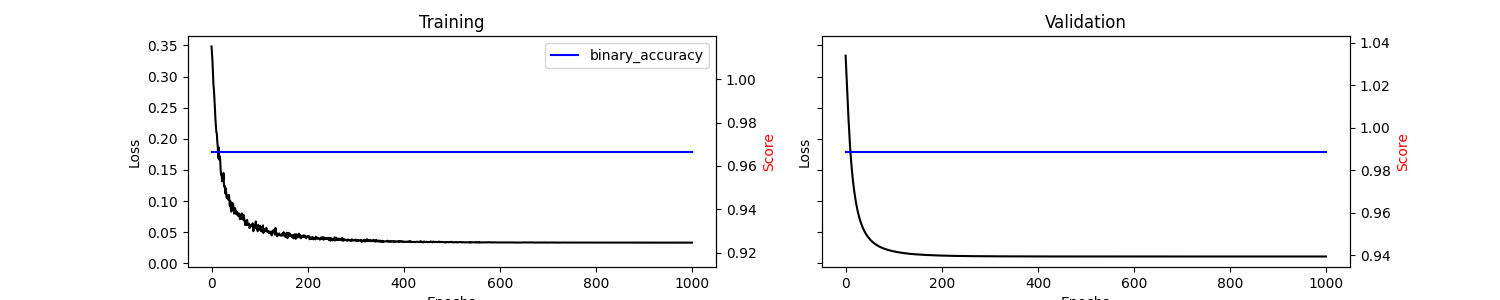
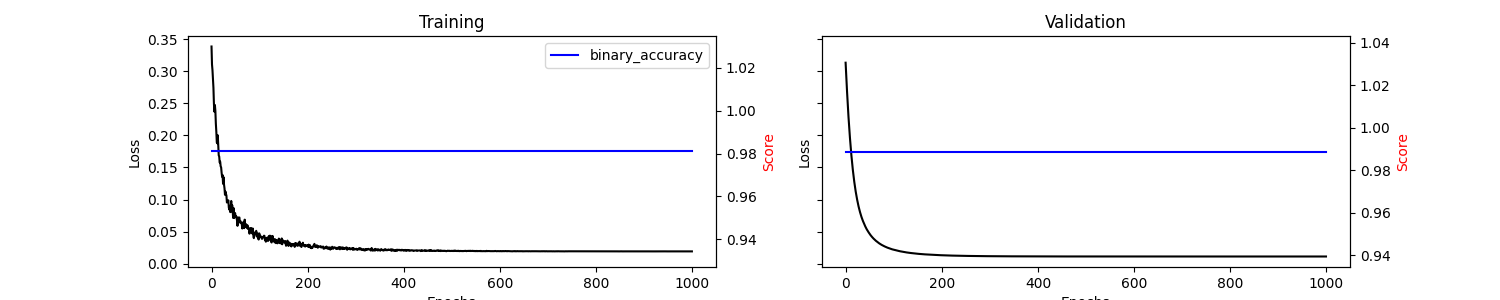
update

diff --git a/gen_training_data.py b/gen_training_data.py
@@ -746,7 +746,6 @@ def ten_vars_gateDeepNN(i):
     print(sum([1 if i == j else 0 for i, j in zip(test_predictions,answer)])/len(answer))
 
 def experimentPartThreeWrapper():
-    """Simple perceptron"""
     # prepare data
     concatDF, splitDF, inputdata, targetdata = experimentPartOneWrapper()
     # prepare network
@@ -759,7 +758,6 @@ def experimentPartThreeWrapper():
             dict(testNet.in_degree).items(),
         )
     )
-    import random
     answers = {}
     testNodes = list(testNode.keys())
     #testNode = testNode[random.sample(range(0, len(testNode)), 1)[0]]
@@ -784,22 +782,7 @@ def experimentPartThreeWrapper():
         print(testTarget.shape)
         print(testTarget)
         print(testInput)
-        """
-        model = models.Sequential(
-            name="Perceptron",
-            layers=[
-                layers.Dense(  # a fully connected layer
-                    name="dense",
-                    input_dim=len(
-                        testInput.columns
-                    ),  # number of features = number of upstream nodes from the PKN
-                    units=1,  # and 1 node because we want 1 output
-                    activation="linear",  # f(x)=x
-                )
-            ],
-        )
-        model.summary()
-        """
+
         model = models.Sequential(name="DeepNN", layers=[
         ### hidden layer 1
         layers.Dense(name="h1", input_dim=len(
@@ -808,14 +791,14 @@ def experimentPartThreeWrapper():
                     units=int(round((len(
                         testInput.columns
                     )+1)/2)), 
-                    activation='linear'),
+                    activation='tanh'),
         layers.Dropout(name="drop1", rate=0.2),
         
         ### hidden layer 2
         layers.Dense(name="h2", units=int(round((len(
                         testInput.columns
                     )+1)/4)), 
-                    activation='relu'),
+                    activation='sigmoid'),
         layers.Dropout(name="drop2", rate=0.2),
         
         ### layer output
@@ -832,18 +815,17 @@ def experimentPartThreeWrapper():
                 #tensorflow.keras.metrics.FalsePositives(),
                 #tensorflow.keras.metrics.FalseNegatives(),
                 tensorflow.keras.metrics.BinaryAccuracy(),
-                R2,
                 #tensorflow.keras.metrics.Recall(),
             ],
         )
 
         n_samples = len(testInput.index)
-        trainingSamples = random.sample(range(0, n_samples), floor(3*n_samples/4))
+        trainingSamples = sample(range(0, n_samples), floor(3*n_samples/4))
         testSamples = list(set(range(0,n_samples)).difference(set(trainingSamples)))
-        X = testInput.iloc[trainingSamples]
-        y = testTarget.iloc[trainingSamples]
+        X = testInput#.iloc[trainingSamples]
+        y = testTarget#.iloc[trainingSamples]
         training = model.fit(
-            x=X, y=y, batch_size=2, epochs=16, shuffle=True, verbose=0, validation_split=0.3
+            x=X, y=y, batch_size=10, epochs=1000, shuffle=True, verbose=0, validation_split=0.3
         )
 
         # plot
@@ -879,28 +861,25 @@ def experimentPartThreeWrapper():
             i = i + 1
         ax22.set_ylabel("Score", color="red")
         ax11.legend()
-        plt.savefig("temp.png")
+        plt.savefig(str(testNode)+"_training.png")
         plt.close()
 
         ## explainer_shap(model, upstream, X, X_train=X, task="regression", top=10)
-        from numpy import argmax
-        test_predictions = argmax(model.predict(testInput.iloc[testSamples]),axis=-1).flatten()
+        answer = testTarget.iloc[testSamples]
+        answer = answer.iloc[:,0]
+        answer = answer.to_list()
 
-        a = plt.axes(aspect='equal')
-        plt.scatter(testTarget.iloc[testSamples], test_predictions)
+        test_predictions = np.round(model.predict(testInput.iloc[testSamples]))
+        plt.title("Proportion true predictions: " + str(round(sum([1 if i == j else 0 for i, j in zip(test_predictions,answer)])/len(answer),2)))
+        plt.axes(aspect='equal')
+        plt.hist([int(int(i) == int(j)) for i,j in zip(answer, test_predictions)])
         plt.xlabel('True Values')
         plt.ylabel('Predictions')
         lims = [0, 1]
         plt.xlim(lims)
-        plt.ylim(lims)
-        plt.savefig('temp2.png')
-
+        plt.savefig(str(testNode)+"_predictions.png")
+        plt.close()
         print(test_predictions)
-        #print(testTarget.iloc[testSamples])
-        #print(len(testTarget.iloc[testSamples]))
-        answer = testTarget.iloc[testSamples]
-        answer = answer.iloc[:,0]
-        answer = answer.to_list()
         print(answer)
         print(len(answer))
         print(sum([1 if i == j else 0 for i, j in zip(test_predictions,answer)]))
@@ -919,6 +898,8 @@ if __name__ == "__main__":
     # prepare network
     #testNet = nx.read_graphml("large_hif1Agraph.graphml")
     #experimentPartTwoWrapper()
+
+    """
     for i in range(0,3):
         print(i)
         ten_vars_gateDeepNN(i)
@@ -927,3 +908,5 @@ if __name__ == "__main__":
         plt.close()
         three_vars_gateDeepNN(i)
         plt.close()
+    """
+    experimentPartThreeWrapper()
